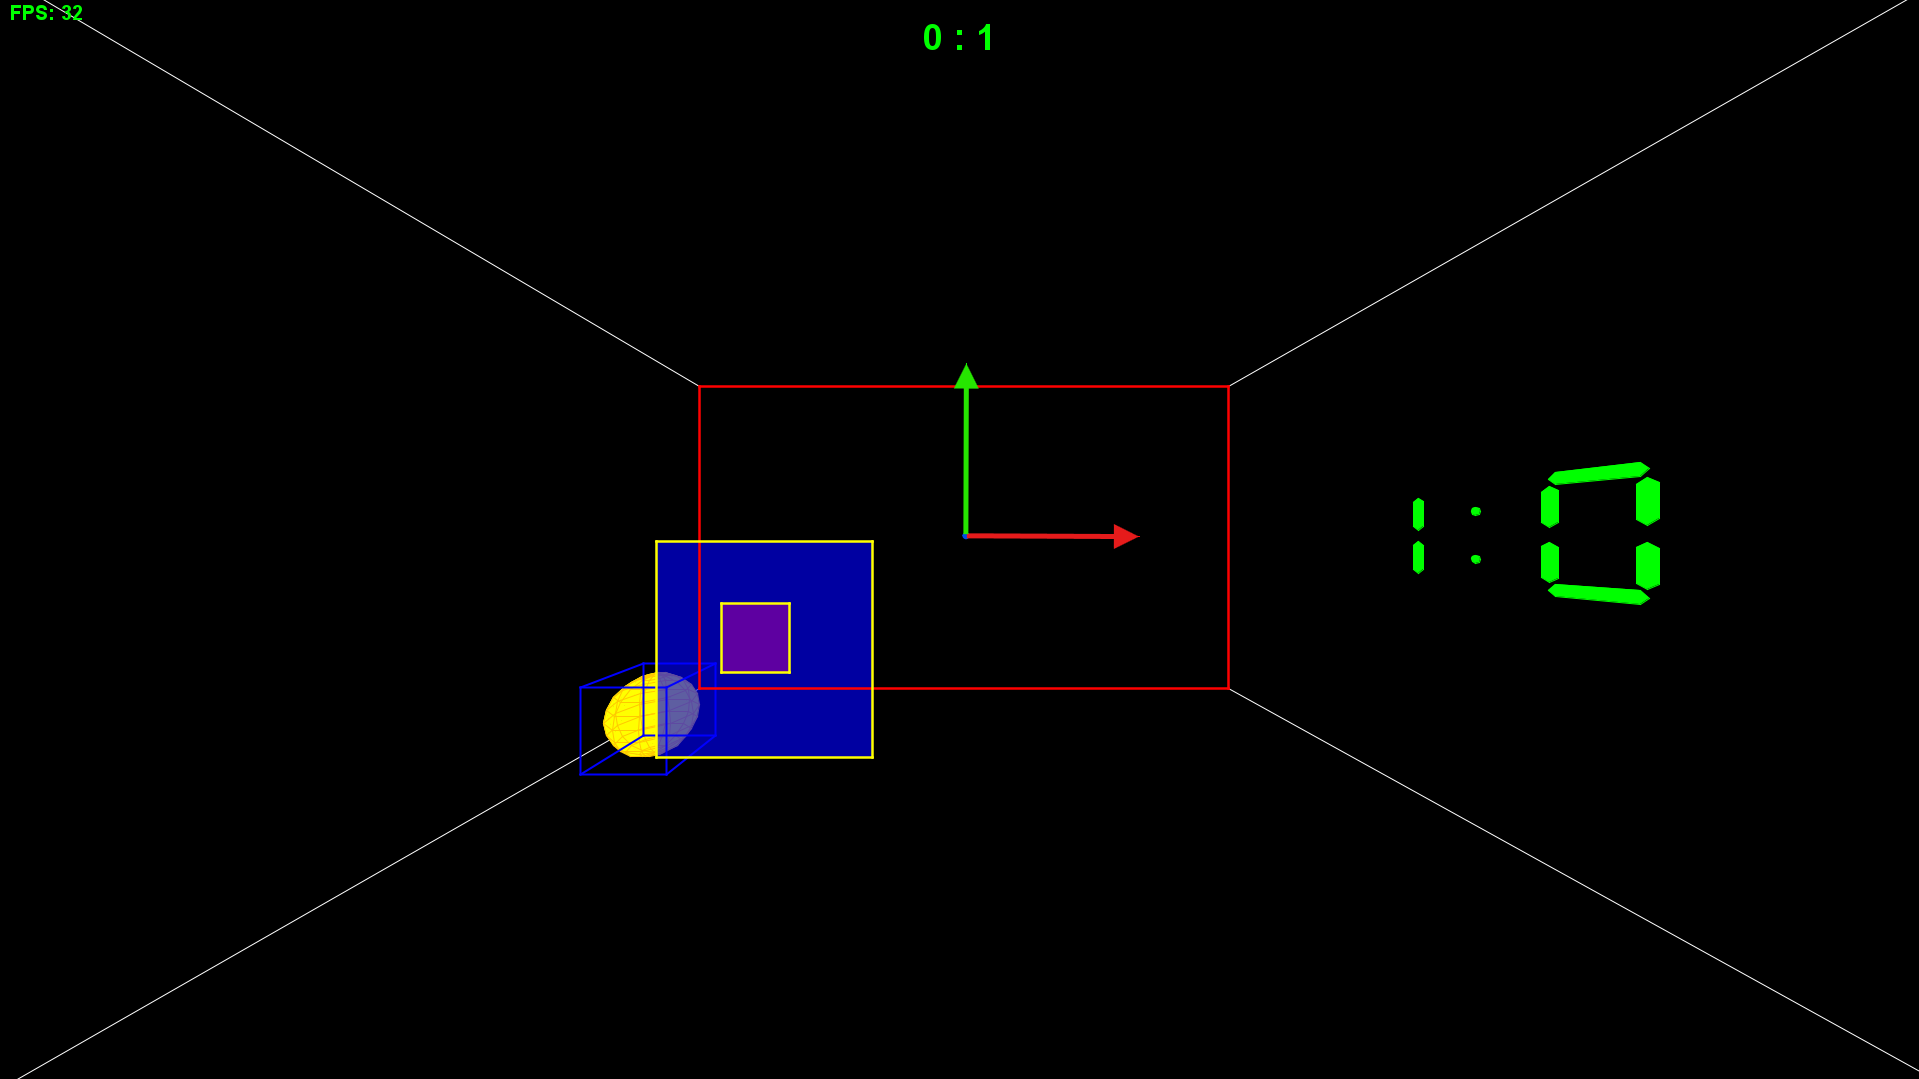
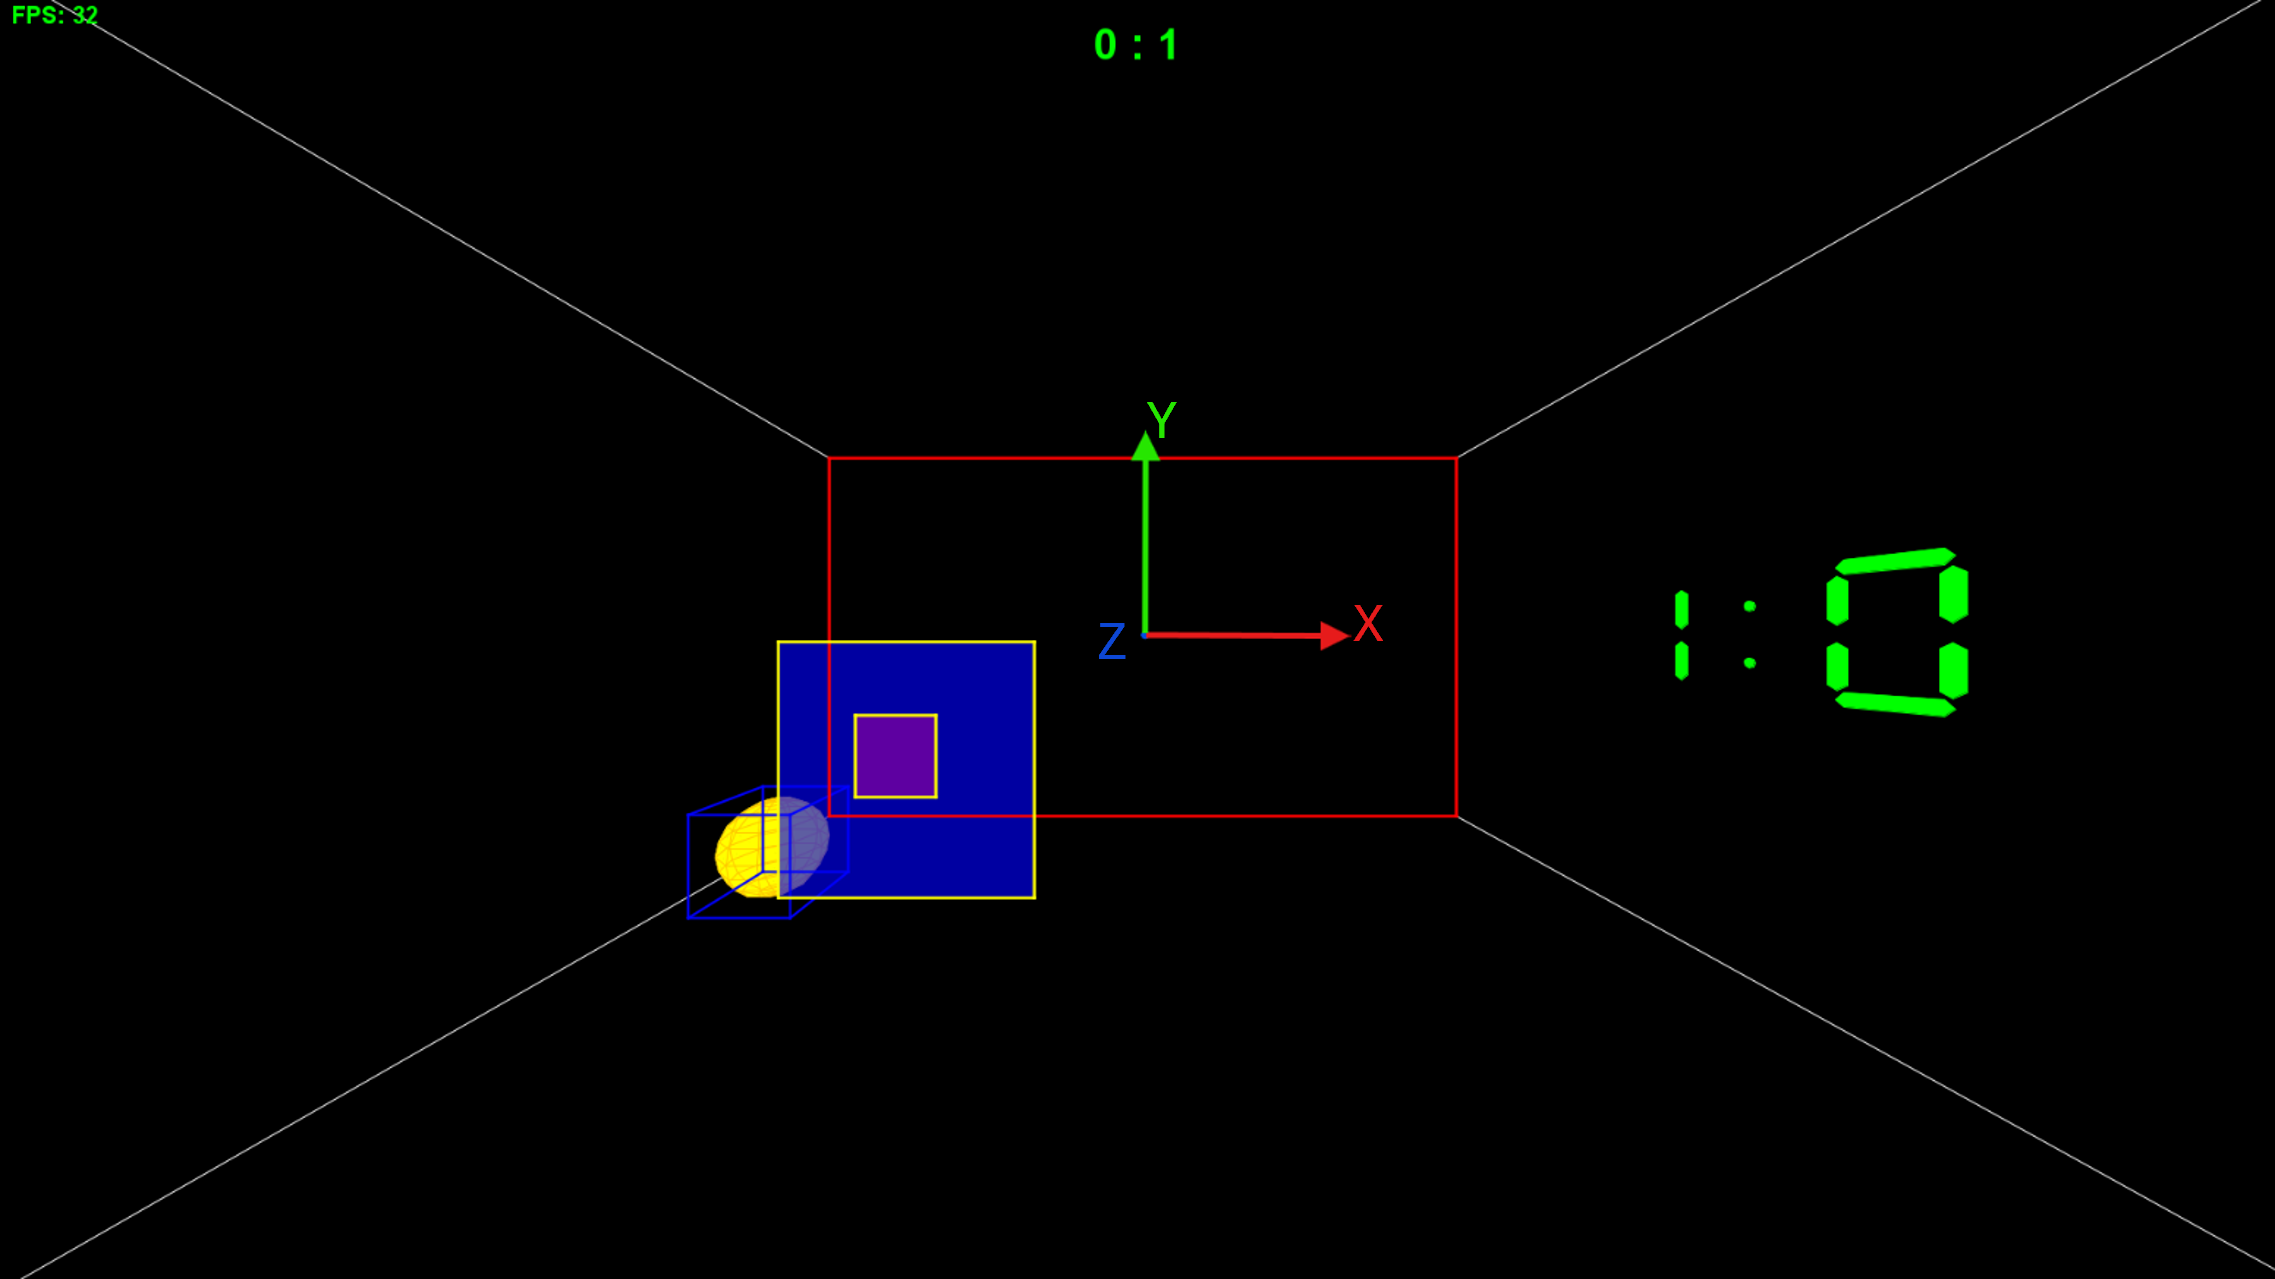
refactor: replace leap method with lerp for consistent vector interpolation and improve boundary checks

diff --git a/src/math/Vector3.java b/src/math/Vector3.java
@@ -39,11 +39,6 @@ public class Vector3 {
     }
 
     // ===== Vektor-Operationen =====
-    // Invertiert die Richtung des Vektors (negiert alle Komponenten)
-    public Vector3 invert() {
-        return new Vector3(-x, -y, -z);
-    }
-
     // Teilt alle Komponenten des Vektors durch einen Skalar
     public Vector3 divide(double divisor) {
         return new Vector3(x / divisor, y / divisor, z / divisor);
@@ -54,13 +49,8 @@ public class Vector3 {
         return new Vector3(x + other.x, y + other.y, z + other.z);
     }
 
-    // Erzeugt den Standard-Up-Vektor (0, 1, 0)
-    public static Vector3 up() {
-        return new Vector3(0, 1, 0);
-    }
-
-    // Führt eine lineare Interpolation (Leap) zwischen diesem Vektor und einem Zielvektor durch
-    public Vector3 leap(Vector3 other, double percent) {
+    // Führt eine lineare Interpolation (Lerp) zwischen diesem Vektor und einem Zielvektor durch
+    public Vector3 lerp(Vector3 other, double percent) {
         double newX = this.x + (other.x - this.x) * percent;
         double newY = this.y + (other.y - this.y) * percent;
         double newZ = this.z + (other.z - this.z) * percent;

diff --git a/src/objects/Ball.java b/src/objects/Ball.java
@@ -24,7 +24,7 @@ public class Ball extends Entity {
         Mesh boxMesh = new EllipseMesh(RADIUS, 10, 10);
         setMesh(boxMesh);
 
-        // Wandgrenzen aus der tatsächlichen Boxgröße ableiten statt fester Zahlen
+        // Wandgrenzen aus der tatsächlichen Boxgröße ableiten
         this.maxX = boxSize.getX() - RADIUS;
         this.maxY = boxSize.getY() - RADIUS;
 
@@ -75,14 +75,18 @@ public class Ball extends Entity {
 
         // Einfache Kollisionserkennung mit den Wänden
         Vector3 position = getTransform().getPosition();
-        if (position.getX() > maxX || position.getX() < -maxX) {
+        if (isOut(-maxX, maxX, position.getX())) {
             velocity.setX(-velocity.getX());
         }
-        if (position.getY() > maxY || position.getY() < -maxY) {
+        if (isOut(-maxY, maxY, position.getY())) {
             velocity.setY(-velocity.getY());
         }
 
         getHitbox().setPosition(getTransform().getPosition());
+    }
+
+    private boolean isOut(double min, double max, double value) {
+        return value > max || value < min;
     }
 
     // Liefert eine Debug-Ausgabe des Balls

diff --git a/src/scenemanagement/scenes/GameScene.java b/src/scenemanagement/scenes/GameScene.java
@@ -141,7 +141,8 @@ public class GameScene extends Scene {
 
         // Leichte Kamera-Bewegung basierend auf der Mausposition für Parallaxen-Effekt
         Vector3 targetCameraPosition = mousePosition.divide(15);
-        Vector3 cameraPosition = camera.getPosition().leap(targetCameraPosition, 0.5);
+        Vector3 cameraPosition = camera.getPosition().
+                lerp(targetCameraPosition, 0.5);
         camera.setPosition(new Vector3(cameraPosition.getX(), cameraPosition.getY(), camera.getPosition().getZ()));
 
         // Während des Countdowns bewegen sich nur Spieler und Kamera, der Rest bleibt stehen

diff --git a/src/objects/Enemy.java b/src/objects/Enemy.java
@@ -28,7 +28,7 @@ public class Enemy extends Paddle {
 
     // Bewegt den Gegner weich (interpoliert) in Richtung der Ballposition
     public void move(Vector3 ballPosition, double difficulty) {
-        getTransform().setPosition(getTransform().getPosition().leap(ballPosition, difficulty));
+        getTransform().setPosition(getTransform().getPosition().lerp(ballPosition, difficulty));
 
         // Begrenze die Position innerhalb der Box, die Z-Ebene bleibt dabei fest
         Vector3 position = getTransform().getPosition();

diff --git a/src/Quellen.md b/src/Quellen.md
@@ -1,8 +1,9 @@
 # Mathematische Quellen
 1. projektion und Matrix-Translation: http://theissenonline.de/Mathematik/Zentralprojektion.pdf, 09.02.2026
-2. Matrix mal Vektor: https://wwwold.mathematik.tu-dortmund.de/lsviii/new/media/veranstaltungen/wise1112/linala/LA5.pdf (Definition 5.1), 09.02.2026
-3. Matrix mal Matrix: https://page.math.tu-berlin.de/~moehring/Coma/Skript-I-Java/algorithmenaufarrays.pdf (6.2 Lineare Gleichungssysteme, Seite 121), 09.02.2026
-4. Inverse Matrix: https://www.mathcentre.ac.uk/resources/Engineering%20maths%20first%20aid%20kit/latexsource%20and%20diagrams/5_5.pdf, 09.03.2026
+2. Matrix-Translation: https://www.mathematik.uni-marburg.de/~thormae/lectures/graphics1/graphics_5_2_ger_web.html#1, 24.08.2026
+3. Matrix mal Vektor: https://wwwold.mathematik.tu-dortmund.de/lsviii/new/media/veranstaltungen/wise1112/linala/LA5.pdf (Definition 5.1), 09.02.2026
+4. Matrix mal Matrix: https://page.math.tu-berlin.de/~moehring/Coma/Skript-I-Java/algorithmenaufarrays.pdf (6.2 Lineare Gleichungssysteme, Seite 121), 09.02.2026
+5. Inverse Matrix: https://www.mathcentre.ac.uk/resources/Engineering%20maths%20first%20aid%20kit/latexsource%20and%20diagrams/5_5.pdf, 09.03.2026
 
 # Sound- und Audioquellen
 - pong: https://pixabay.com/de/sound-effects/musical-bowling-ball-90863/, 14.01.2026
@@ -19,6 +20,7 @@
 - Volume Change: https://stackoverflow.com/questions/66214054/set-volume-of-a-java-clip-method-not-working, 06.04.2026
 - Slider Klasse: https://docs.oracle.com/javase/8/docs/api/javax/swing/JSlider.html, 27.04.2026
 - Invisibile Cursor https://stackoverflow.com/questions/1984071/how-to-hide-cursor-in-a-swing-application, 27.04.2026
+- Vector3 Lerp: https://docs.unity3d.com/ScriptReference/Vector3.Lerp.html, 22.08.2026
 
 # Sonstiges
 - Pong als Arcade Game: https://de.wikipedia.org/wiki/Pong, 26.05.2026
